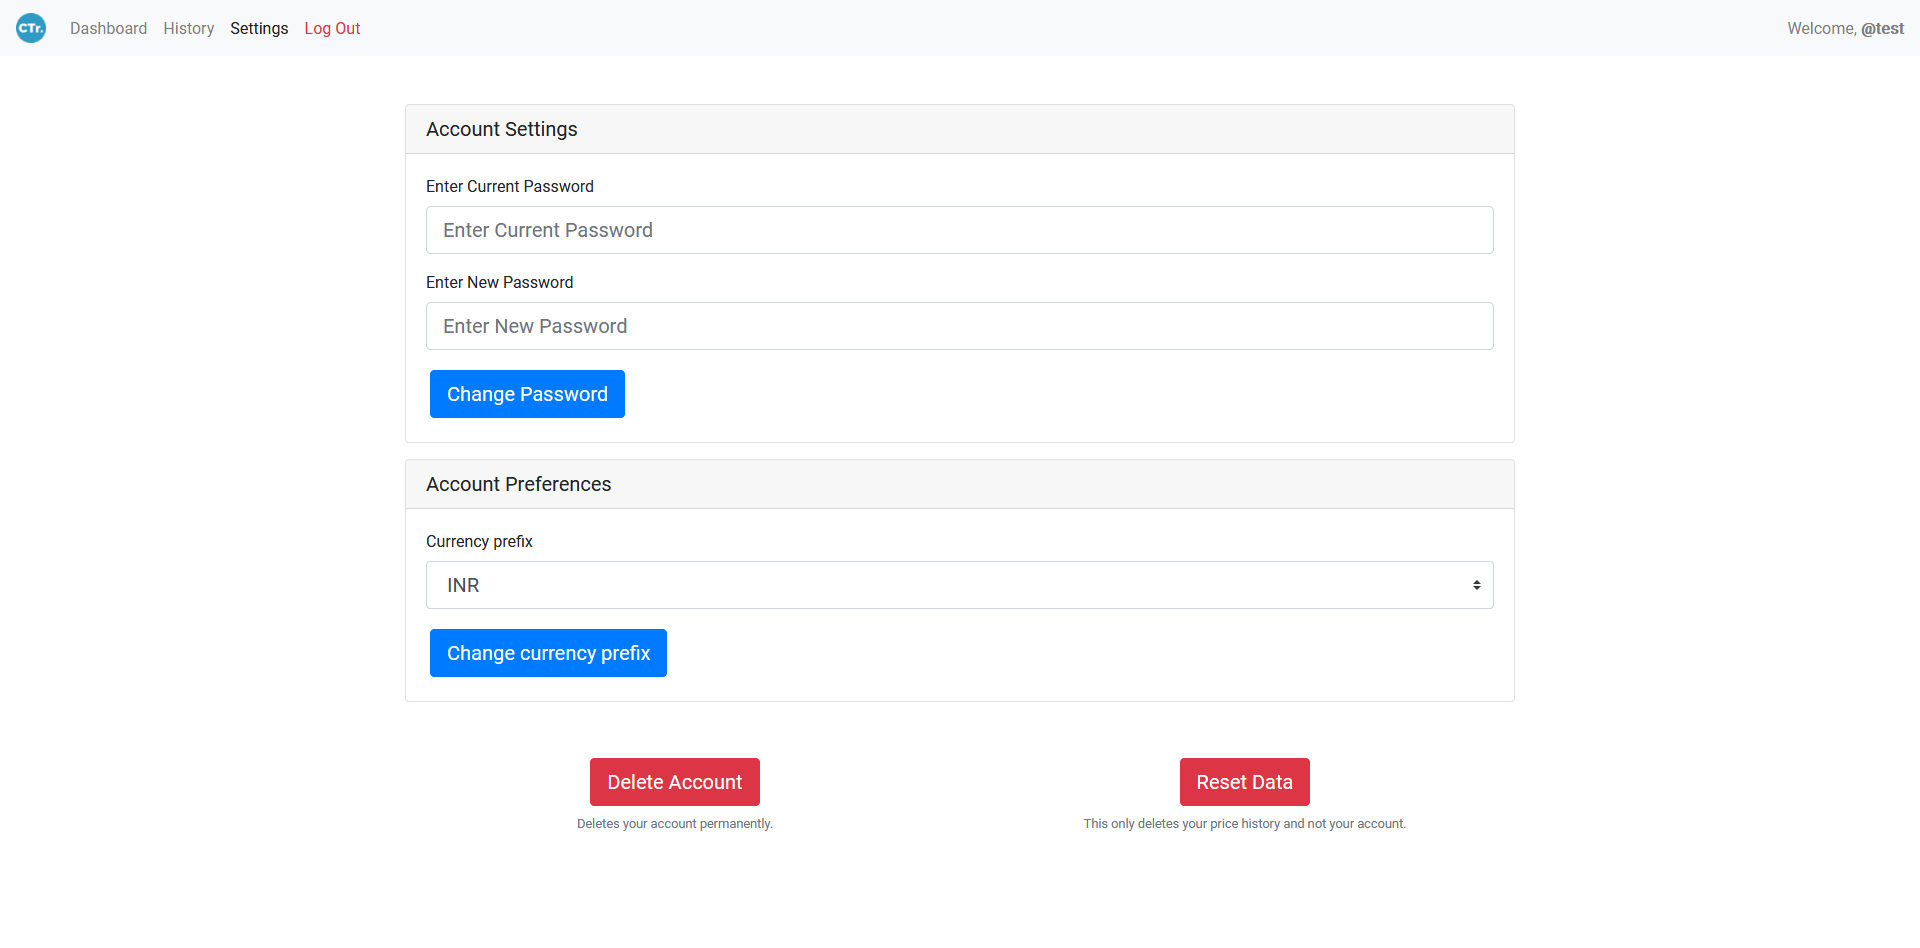
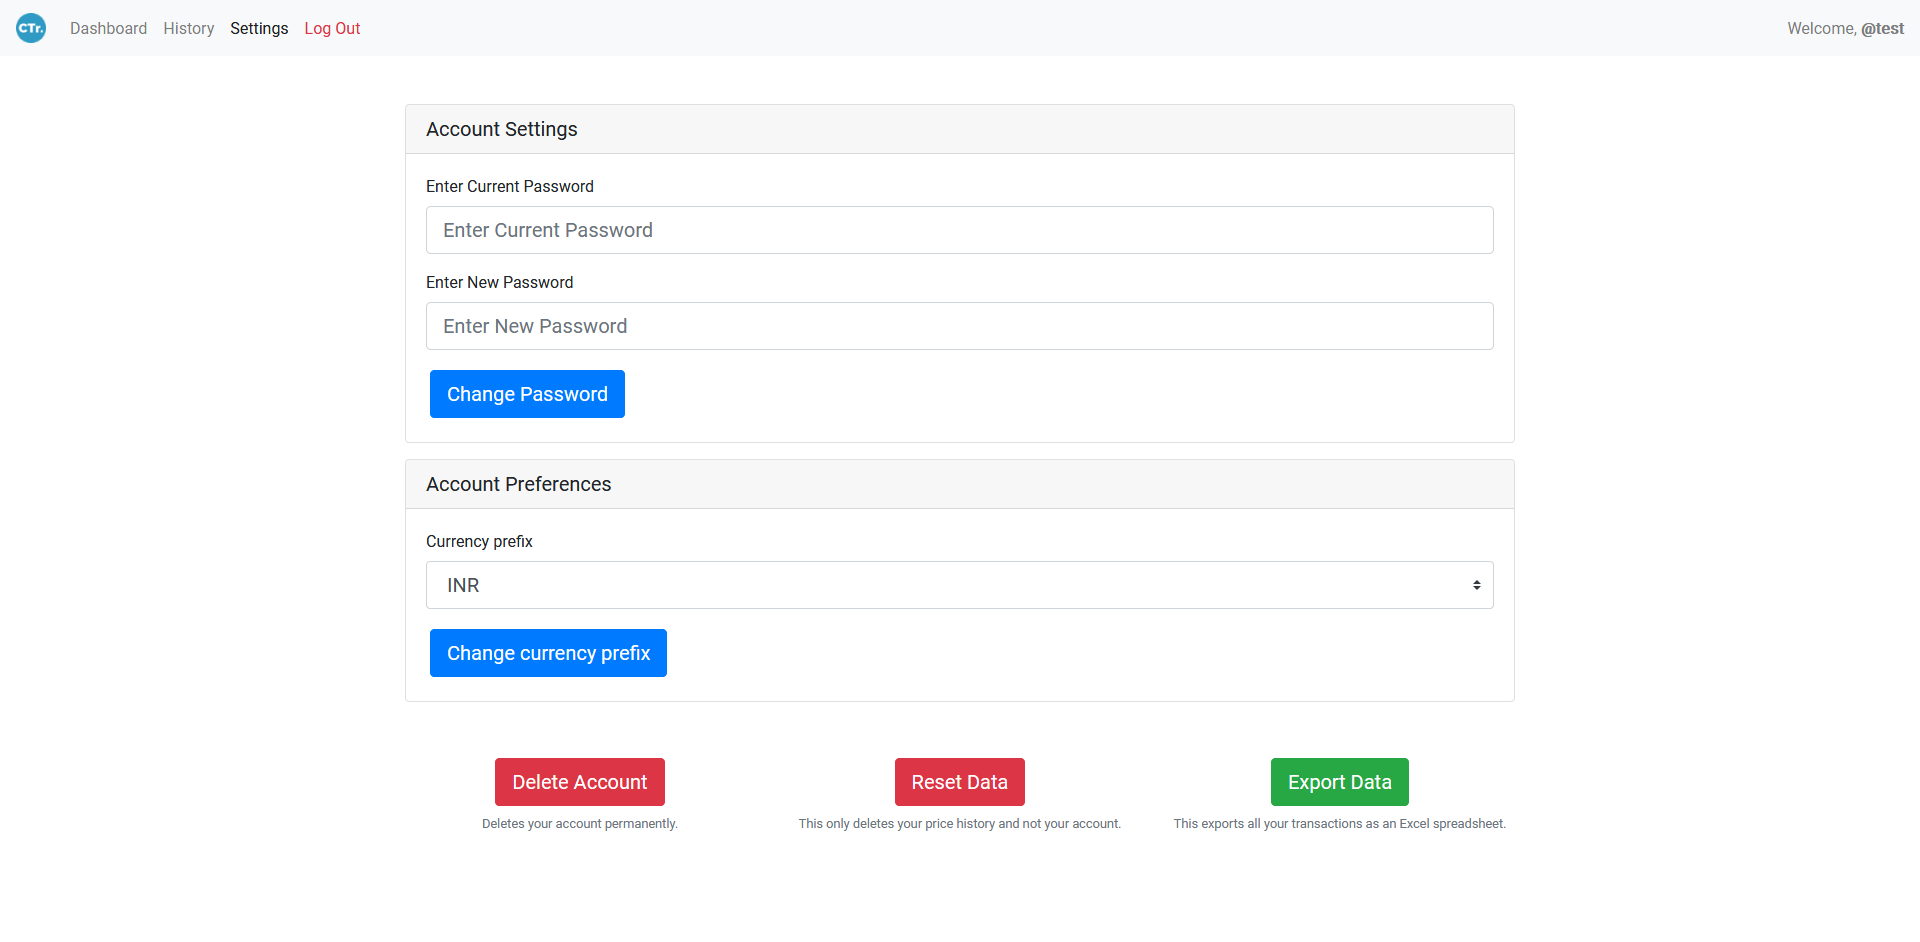
Added export as excel spreadsheet functionality.

diff --git a/js/event_listeners.js b/js/event_listeners.js
@@ -10,3 +10,6 @@ function confirmResetData() {
         window.location="http://localhost/php/routines/delete_data.php"   
     }
 }
+function exportAsExcel() {
+    window.location="http://localhost/php/routines/export_excel.php"   
+}

diff --git a/php/routines/export_excel.php b/php/routines/export_excel.php
@@ -1,0 +1,142 @@
+<?php
+    // Import constants and secrets.
+    include('../db/db_config.php');
+    include('../db/sql_queries.php');
+
+    if(!isset($_SESSION)) { 
+        session_start(); 
+    }
+
+    // check if session active 
+    if(!isset($_SESSION['username'])){
+        navigate_to_login_page("Not logged in");
+    }
+
+    $username = $_SESSION['username'];
+
+    $query = get_user_currency($conn,$username);
+    $result = mysqli_query($conn,$query);
+    if(!$result) {
+        show_alert_and_navigate("Database error!");
+    } else {
+        $row = mysqli_fetch_assoc($result);
+
+        switch ($row['currency_default']) {
+            case 1:
+                $currency = "&#8377 ";
+                break;
+            case 2:
+                $currency = "$";
+                break;
+            case 3:
+                $currency = "£";
+                break;
+            default:
+                $currency = "&euro ";
+        }
+    } 
+
+    $query = get_all_logs($conn,$username);
+    $result = mysqli_query($conn,$query);
+
+
+    $output = '<table> <thead> <tr> <th scope="col">Type</th> <th scope="col">Account</th> <th scope="col">Amount</th> <th scope="col">Date</th> <th scope="col">Description</th> <th scope="col">Balance Before</th> <th scope="col">Balance After</th> </tr> </thead> <tbody>';
+            
+    if(mysqli_num_rows($result)==0) {
+        $output .= '<tr><td colspan="7">No history available.</td></tr>';
+    } else {
+
+        while($row = mysqli_fetch_array($result, MYSQLI_ASSOC)){
+            $log_id = $row['log_id'];
+            $type = $row['type'];
+            $account = $row['account'];
+            $amount = $row['amount'];
+            $mysqlDate = $row['log_date'];
+            $phpdate = strtotime( $mysqlDate );
+            $date = date('d/m/y g:i A', $phpdate );
+            $desc = $row['description'];
+            $balance_before = $row['balance_before'];
+            $balance_after = $row['balance_after'];
+            $output .= '<tr>';
+            $output .= '<td>';
+            if($type == 1) {
+                $output .= 'Added to';
+            } else if($type == 2){
+                $output .= 'Subtracted from';
+            } else {
+                $output .= 'Transferred to and from';
+            }
+            $output .= '</td>';
+            $output .= '<td>';
+            switch($account) {
+                case 1 :
+                    $output .= 'Cash';
+                break;
+                case 2 :
+                    $output .= 'Debit';
+                break;
+                case 3 :
+                    $output .= 'Credit';
+                break;
+                case 12 :
+                    $output .= 'Cash to Debit';
+                break;
+                case 21 :
+                    $output .= 'Debit to Cash';
+                break;
+                case 13 :
+                    $output .= 'Cash to Credit';
+                break;
+                case 23 :
+                    $output .= 'Debit to Credit';
+                break;
+            }
+            $output .= '</td>';
+            $output .= '<td>';
+            $output .= $currency.$amount;
+            $output .= '</td>';
+            $output .= '<td>';
+            $output .= $date;
+            $output .= '</td>';
+            $output .= '<td>';
+            $output .= $desc;
+            $output .= '</td>';
+            $output .= '<td>';
+            $output .= $currency.$balance_before;
+            $output .= '</td>';
+            $output .= '<td>';
+            $output .= $currency.$balance_after;
+            $output .= '</td>';                                    
+            $output .= '</tr>';
+        }
+    }
+
+    $output .= '</tbody></table>';
+
+    $filename = "cashtrack_". $username . "_logs_" . date('Ymd') . ".xls";
+    header('Content-Type: application/vnd.ms-excel');
+    header('Content-Disposition: attachment; filename='.$filename);
+    echo utf8_decode($output);
+    navigate();
+    
+    function show_alert_and_navigate($error) {
+        echo '<script>';
+        echo 'alert("Error : '.$error.'");';
+        echo 'window.location.href = "http://localhost/dashboard/settings";';
+        echo '</script>';
+    }
+    function navigate() {
+        echo '<script>';
+        echo 'window.location.href = "http://localhost/dashboard/settings";';
+        echo '</script>';
+    }
+
+    function navigate_to_login_page($error) {
+        echo '<script>';
+        echo 'alert("Error : '.$error.'");';
+        echo 'window.location.href = "http://localhost/php/pages/login.php";';
+        echo '</script>';
+    }
+
+    mysqli_close($conn);
+?>

diff --git a/dashboard/settings/index.php b/dashboard/settings/index.php
@@ -147,13 +147,17 @@
 
         <div class="container py-5">
             <div class="row mb-auto mt-auto">
-                <div class=" col-sm-12 col-md-6 text-center p-1">
+                <div class=" col-sm-12 col-md-4 text-center p-1">
                     <button class="btn btn-danger btn-lg m-1" onclick="confirmDeleteAccount()">Delete Account</button><br>
                     <small class="text-muted">Deletes your account permanently.</small>
                 </div>
-                <div class="col-sm-12 col-md-6 text-center p-1">
+                <div class="col-sm-12 col-md-4 text-center p-1">
                     <button class="btn btn-danger btn-lg m-1" onclick="confirmResetData()">Reset Data</button><br>
                     <small class="text-muted">This only deletes your price history and not your account.</small>
+                </div>
+                <div class="col-sm-12 col-md-4 text-center p-1">
+                    <button class="btn btn-success btn-lg m-1" onclick="exportAsExcel()">Export Data</button><br>
+                    <small class="text-muted">This exports all your transactions as an Excel spreadsheet.</small>
                 </div>
             </div>
         </div>

diff --git a/README.md b/README.md
@@ -10,7 +10,8 @@ A Web app to help manage your budget and expenses.
 * Add/Subtract/Transfer balances
 * Show graphical representation of balance
 * View, search, update and delete history.
-* modify account settings
+* Modify account settings
+* Export as Excel spreadsheet
 
 ## Tech Stack
 * HTML/CSS/JS for static pages
@@ -78,6 +79,7 @@ Folder structure          |
 * Front-end coding - Added FAQ page.
 * Backend coding - Added undo transaction functionality.
 * Testing - Fixed search, balance, update description bugs.
+* Additional features - Added export as excel spreadsheet option.
 * Deployment - Deployed to 000webhost.
 
 
